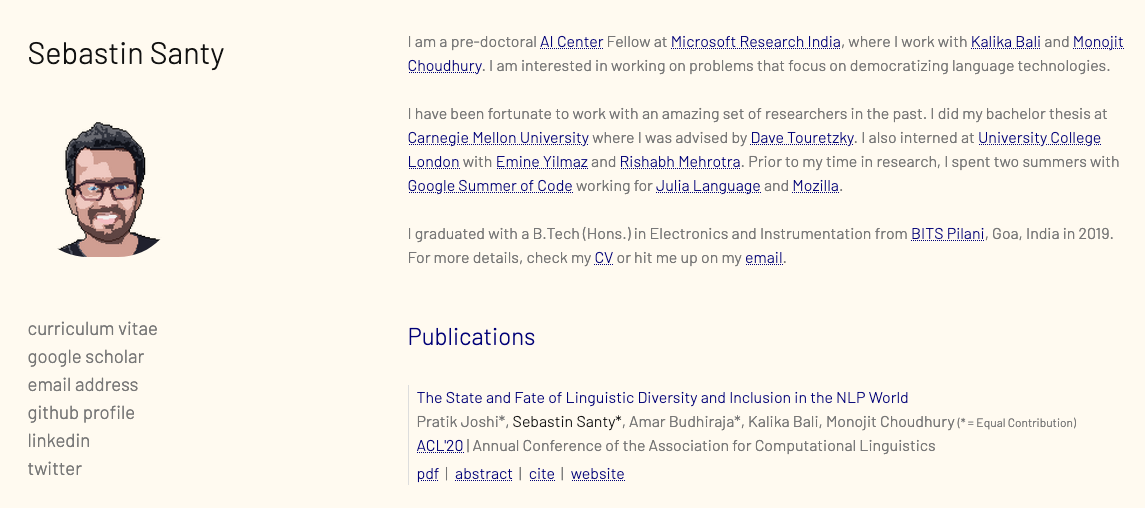
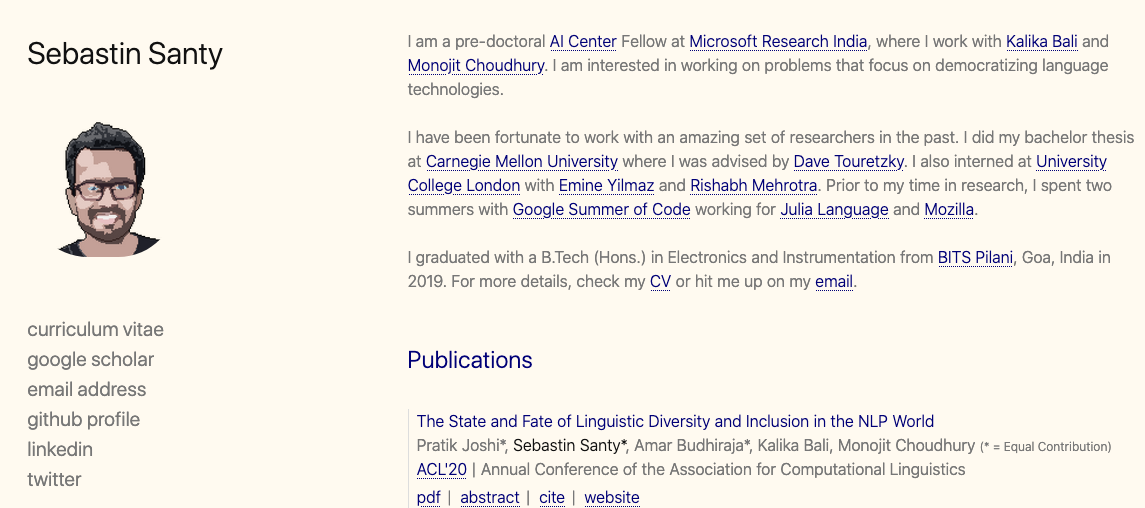
Renew Template design

diff --git a/assets/style-3.js b/assets/style-3.js
@@ -1,5 +1,5 @@
 // Initialize font properties
-const fontname = "Barlow";
+const fontname = "Roboto+Mono";
 const fontweights = [300, 400]
 
 // Color properties
@@ -25,7 +25,7 @@ const adecoration = "underline dotted";
 
 // Menu properties
 const menucolor = basecolor;
-const menufontsize = "14pt";
+const menufontsize = "15pt";
 const menudecoration = "none";
 // const menuhover = accentcolor;
 // const menuhoverduration = "0.3s";

diff --git a/README.md b/README.md
@@ -21,7 +21,7 @@ with style-2.js and style-2.css:
 with style-3.js and style-3.css:
 ![Example4](assets/example4.png)
 
-## Currently Deployed
+## Currently Living @
 [Sebastin Santy](http://sebastinsanty.com/), [Pratik Joshi](https://pratikmjoshi.github.io/)
 
 If you are using this template, thank you! Do send a pull request if you would like your name here.
